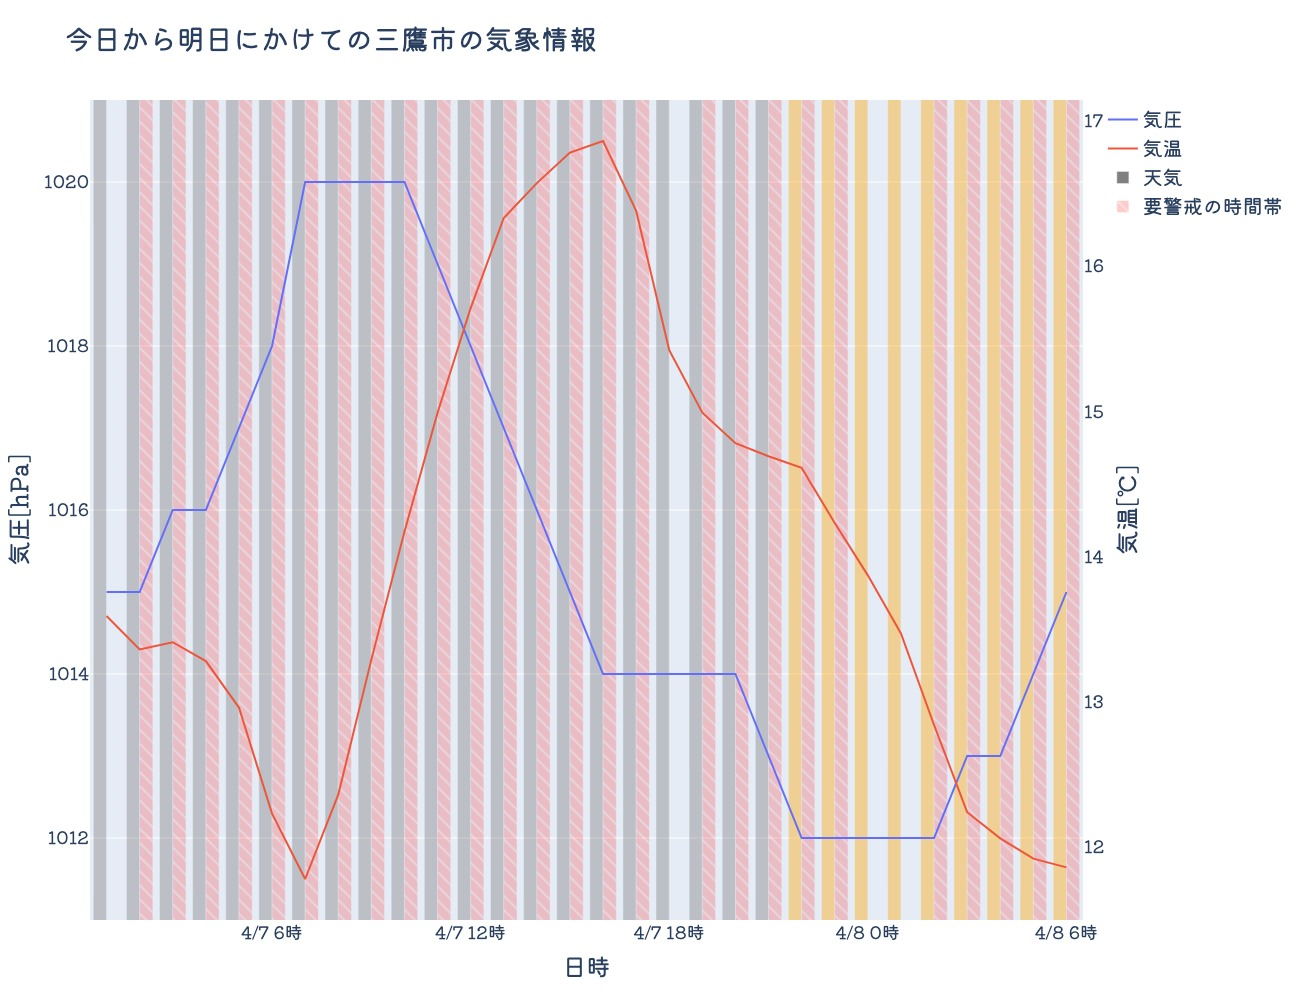
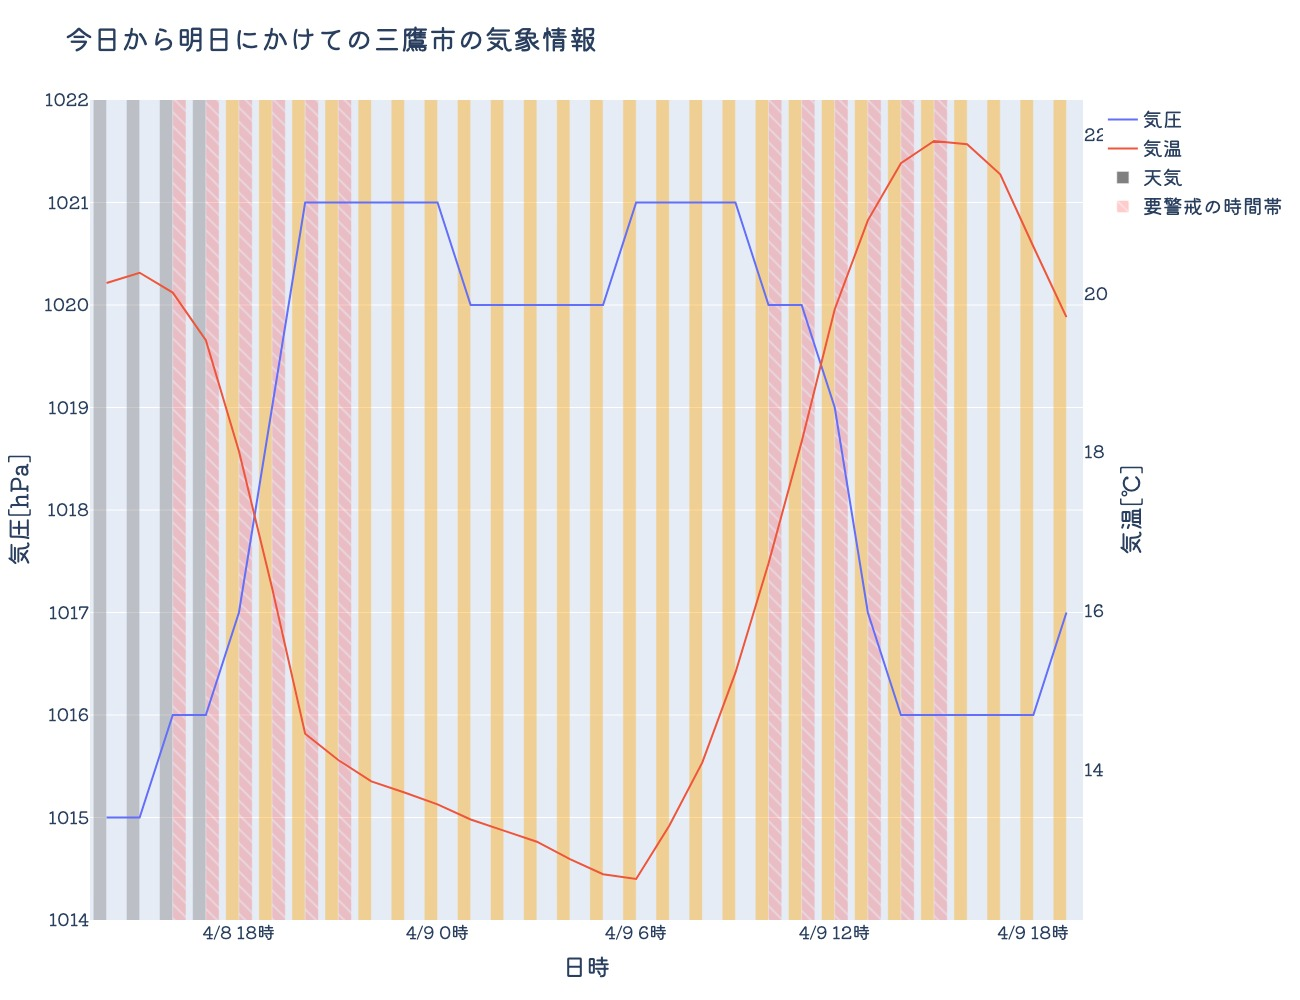
update

diff --git a/atomosbot/forecast_atomos_phenom.py b/atomosbot/forecast_atomos_phenom.py
@@ -5,7 +5,7 @@ import sys
 import json
 from typing import Any, Dict, List
 import datetime
-from datetime import datetime as dt, timedelta
+from datetime import datetime as dt
 
 from linebot import LineBotApi
 from linebot.models import TextSendMessage, ImageSendMessage
@@ -312,9 +312,7 @@ class ForecastAtomosPhenom:
             Dict[str, Any]: 日時の型を変換したjsonファイル
         """
         for idx in range(len(res["hourly"])):
-            res["hourly"][idx]["dt"] = dt.fromtimestamp(
-                res["hourly"][idx]["dt"]
-            ) + timedelta(hours=9)
+            res["hourly"][idx]["dt"] = dt.fromtimestamp(res["hourly"][idx]["dt"])
 
         return res
 
